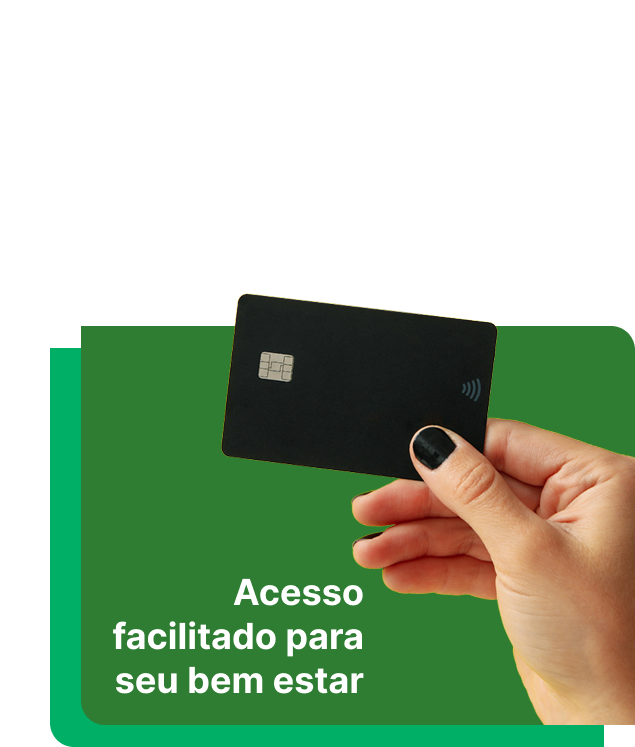
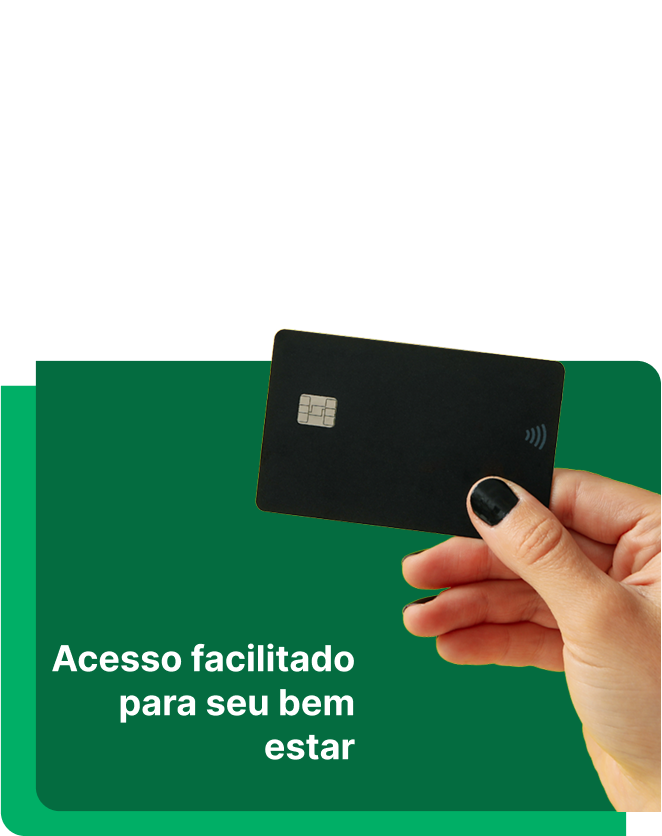
Fix colors

diff --git a/src/components/Footer/styles.module.scss b/src/components/Footer/styles.module.scss
@@ -1,5 +1,6 @@
 .contactSection {
-  background-color: #f9f9f9;
+background: linear-gradient(to bottom, #ffffff 60%, #046C40 40%);
+
   padding: 4rem 2rem;
   .container {
     max-width: 1200px;
@@ -14,6 +15,7 @@
     background-image: url('../../assets/Rectangle\ 141.png');
     background-repeat: no-repeat;
     background-position: 4em 2em;
+    background-color: white;
   }
 
   .left {
@@ -25,16 +27,23 @@
     gap: 1.5rem;
     width: 60%;
     h3 {
-      font-size: 1.2rem;
-      font-weight: 400;
+      font-size: 18px;
+      font-weight: 600;
     }
 
     strong {
+      text-align: center;
       font-size: 1.6rem;
-      background: #00a859;
+      width: 80%;
+      height: 4rem;
+      align-items: center;
+      justify-content: center;
       padding: 0.5rem 1rem;
-      border-radius: 4px;
+      border-radius: 0 4px;
       display: inline-block;
+      background-repeat: no-repeat;
+      background-size: cover;
+      background-image: url('../../assets//Rectangle\ 142.png');
     }
 
     h4 {

diff --git a/src/App.tsx b/src/App.tsx
@@ -2,15 +2,13 @@ import { About } from "./components/About"
 import { BannerCarousel } from "./components/Banner"
 import { Cards } from "./components/Cards"
 import { CTA } from "./components/CTA"
-import Footer from "./components/Footer"
+import {Footer} from "./components/Footer"
 import { InfoCards } from "./components/InfoCards"
 import { MinhaSaude } from "./components/MinhaSaude"
 import Navbar from "./components/Navbar"
 import { StatsSection } from "./components/StateSection"
 
 function App() {
-
-
   return (
     <>
       <Navbar />

diff --git a/src/components/StateSection/styles.module.scss b/src/components/StateSection/styles.module.scss
@@ -17,10 +17,10 @@
 
     div {
       h3 {
-        color: #2ecc71;
+        color: #046C40;
         font-size: 2rem;
         margin-bottom: 0.5rem;
-        border-bottom: 2px solid #2ecc71;
+        border-bottom: 2px solid #046C40;
         display: inline-block;
       }
 
@@ -45,7 +45,7 @@
       max-width: 180px;
 
       svg {
-        color: #2ecc71;
+        color: #046C40;
         width: 64px;
         height: 64px;
         margin-top: 4em;

diff --git a/src/components/CTA/styles.module.scss b/src/components/CTA/styles.module.scss
@@ -1,7 +1,7 @@
 @import "../../styles/theme";
 
 .ctaSection {
-  background-image: url("../../assets/Group\ 4\ \(2\).png"); // renomeie o arquivo
+  background-image: url("../../assets/Group\ 5.png"); // renomeie o arquivo
   background-size: cover;
   background-position: center;
   padding: 4rem 8%;

diff --git a/src/components/MinhaSaude/styles.module.scss b/src/components/MinhaSaude/styles.module.scss
@@ -50,7 +50,7 @@
     margin-bottom: 1.5rem;
 
     span {
-      color: #2ecc71; // verde
+      color: #046C40; // verde
       font-weight: bold;
       font-size: 3rem;
     }
